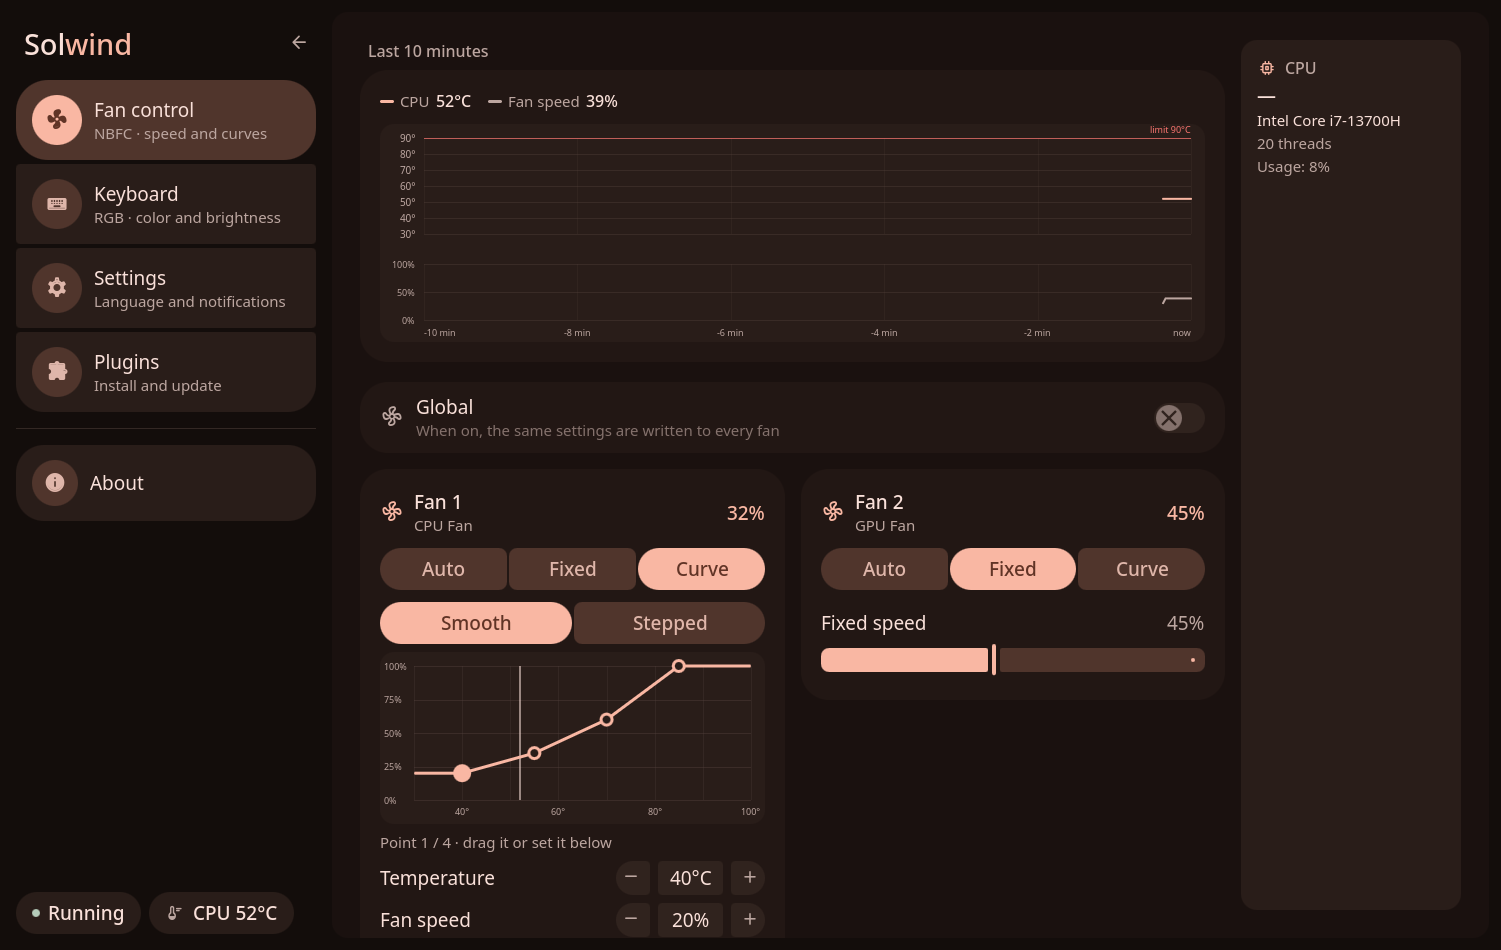
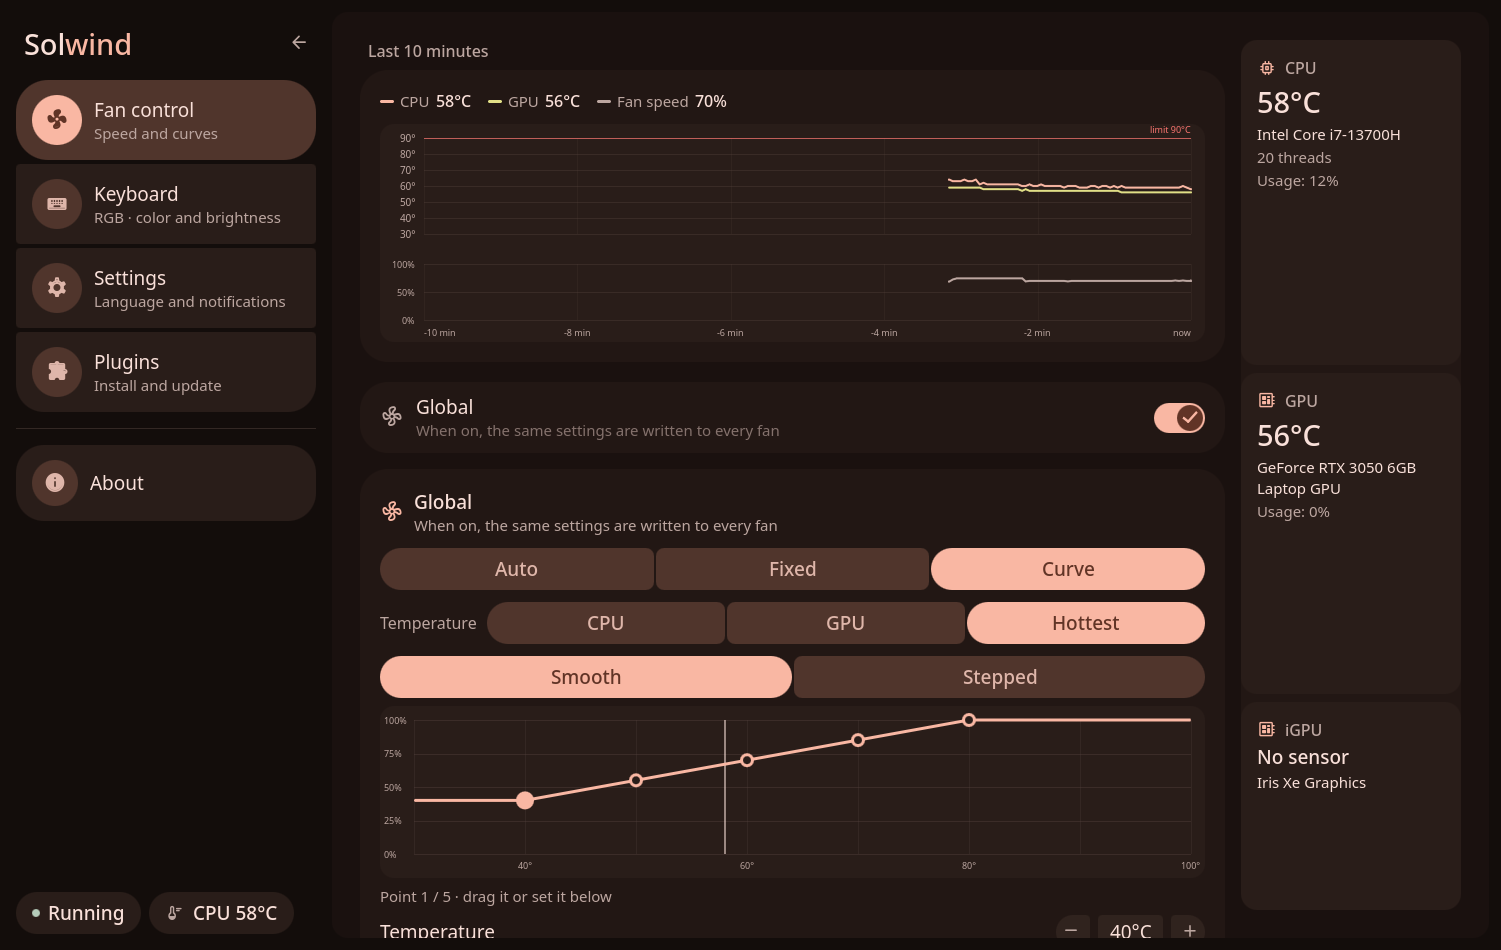
make uninstall asks whether to delete your Solwind folders, new screenshots
Only in a terminal, and no unless answered yes; the screenshots are of the real window.

diff --git a/README.md b/README.md
@@ -128,7 +128,7 @@ sudo make install
 It goes under `/usr/local` (command, solwindd, app, menu entry, icon, systemd user services, and the headers plugins are built against). Then install the [plugins](#plugins) for your laptop, and open **Solwind** from the app launcher or run `solwind`. On a first install the launcher may only show it after you log in again or restart the shell.
 
 - **Update:** `git pull`, `make`, `solwind quit`, `sudo make install`, `solwind plugin update`, then `solwind` (`make install` prints the command if you use the background service).
-- **Uninstall:** `solwind quit`, then `sudo make uninstall`. Turn the background service off first; it tells you if you forgot. Your settings stay in `~/.config/solwind`, your plugins in `~/.local/share/solwind/plugins`.
+- **Uninstall:** `solwind quit`, then `sudo make uninstall`. Turn the background service off first; it tells you if you forgot. It then asks whether to delete your settings (`~/.config/solwind`), plugins (`~/.local/share/solwind`) and build cache too; the answer is no unless you say yes.
 - **Packaging:** `make DESTDIR=/package/root PREFIX=/usr install`.
 
 `make install` stops without changing anything while Solwind runs or when it finds an older install in your home folder.
